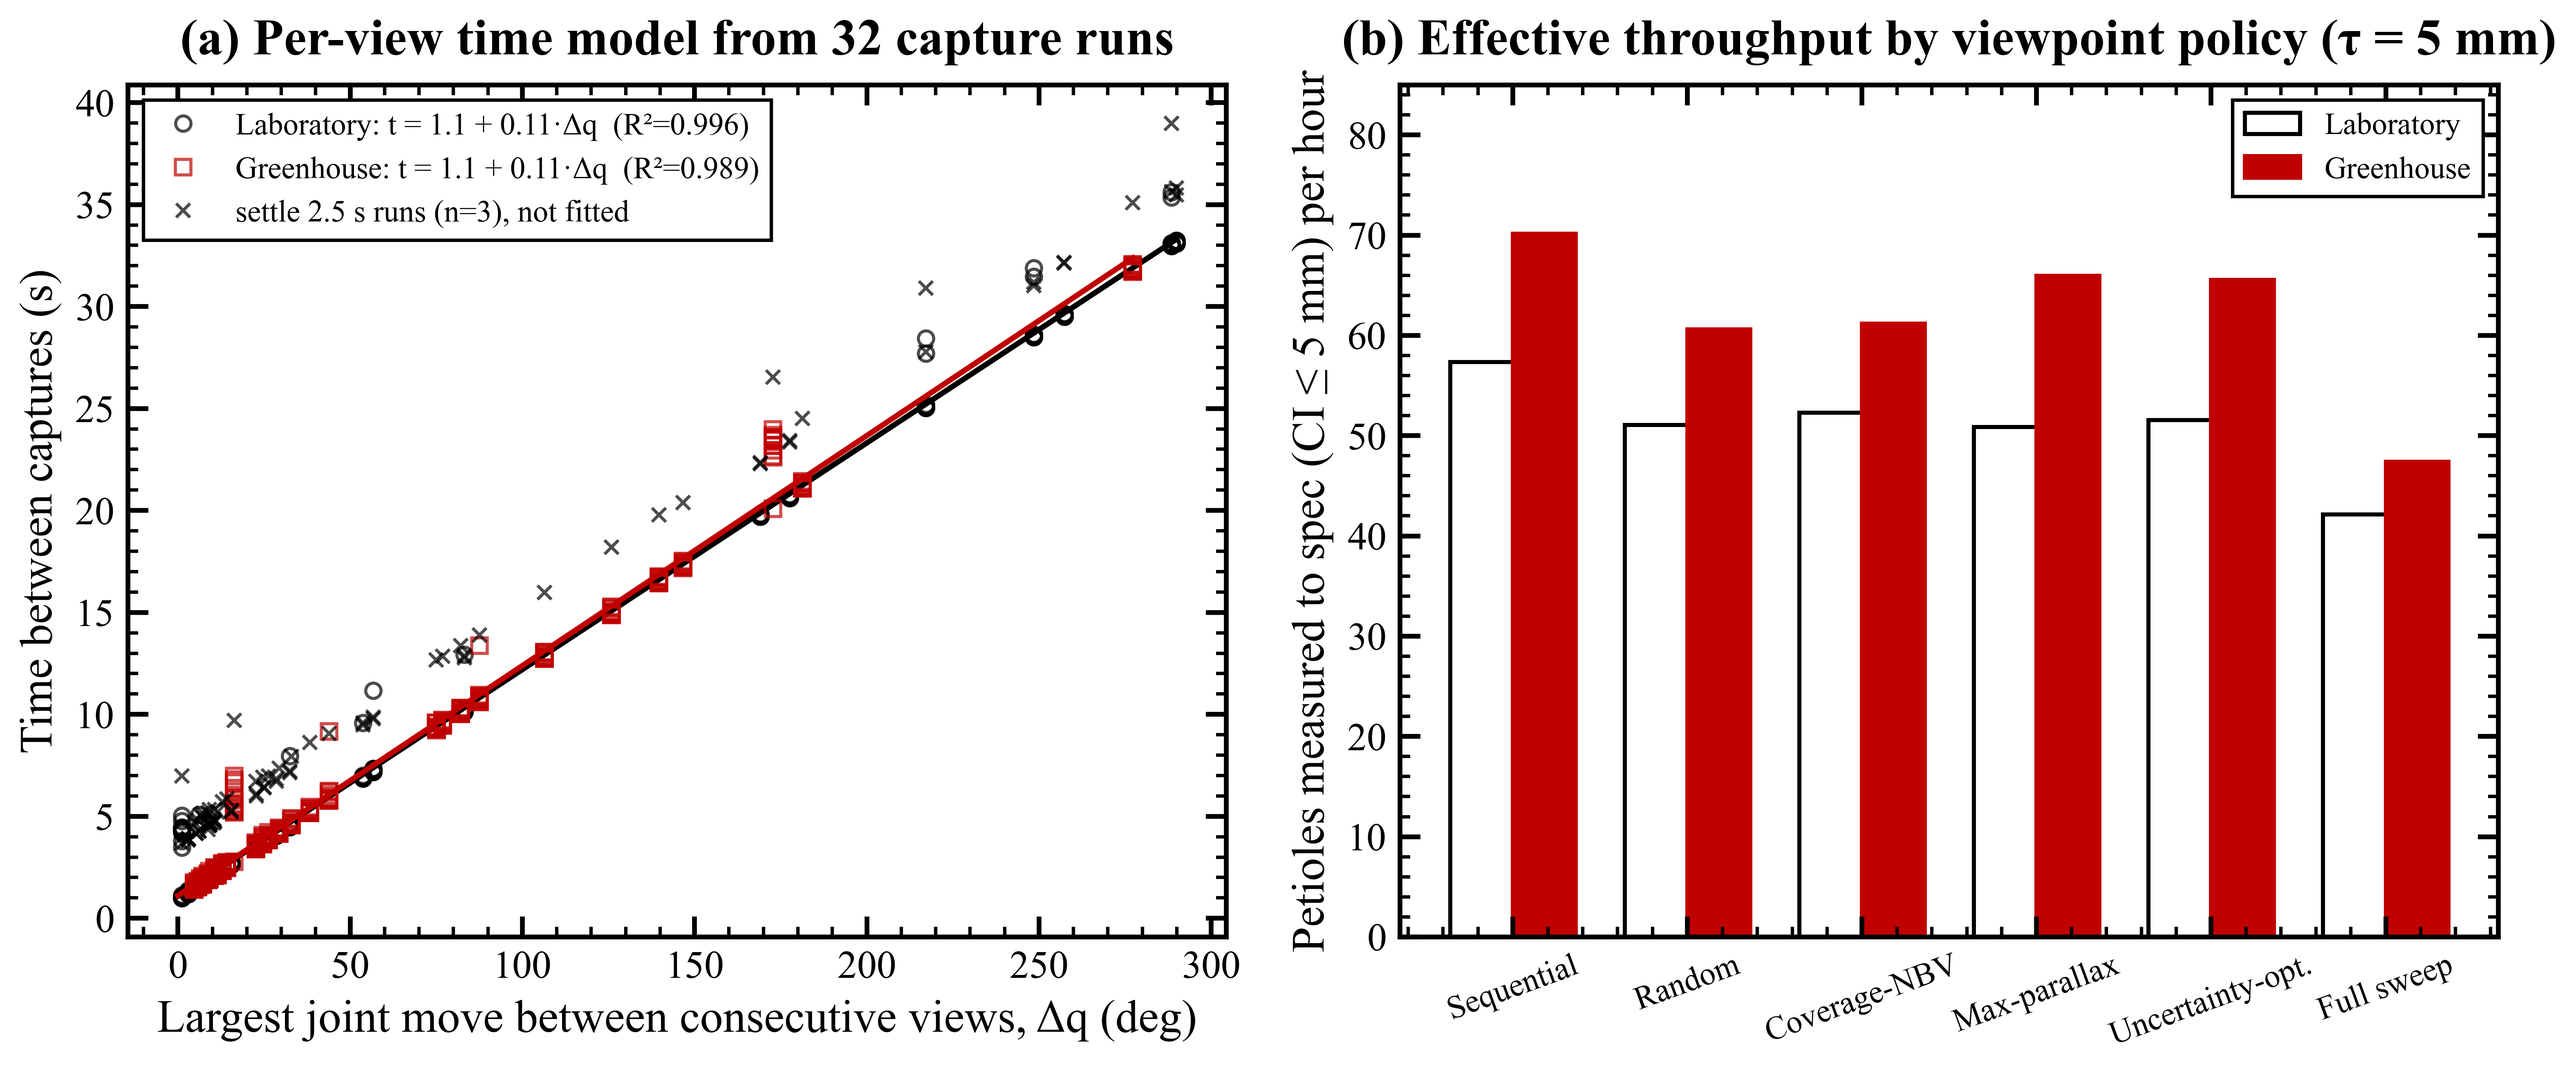
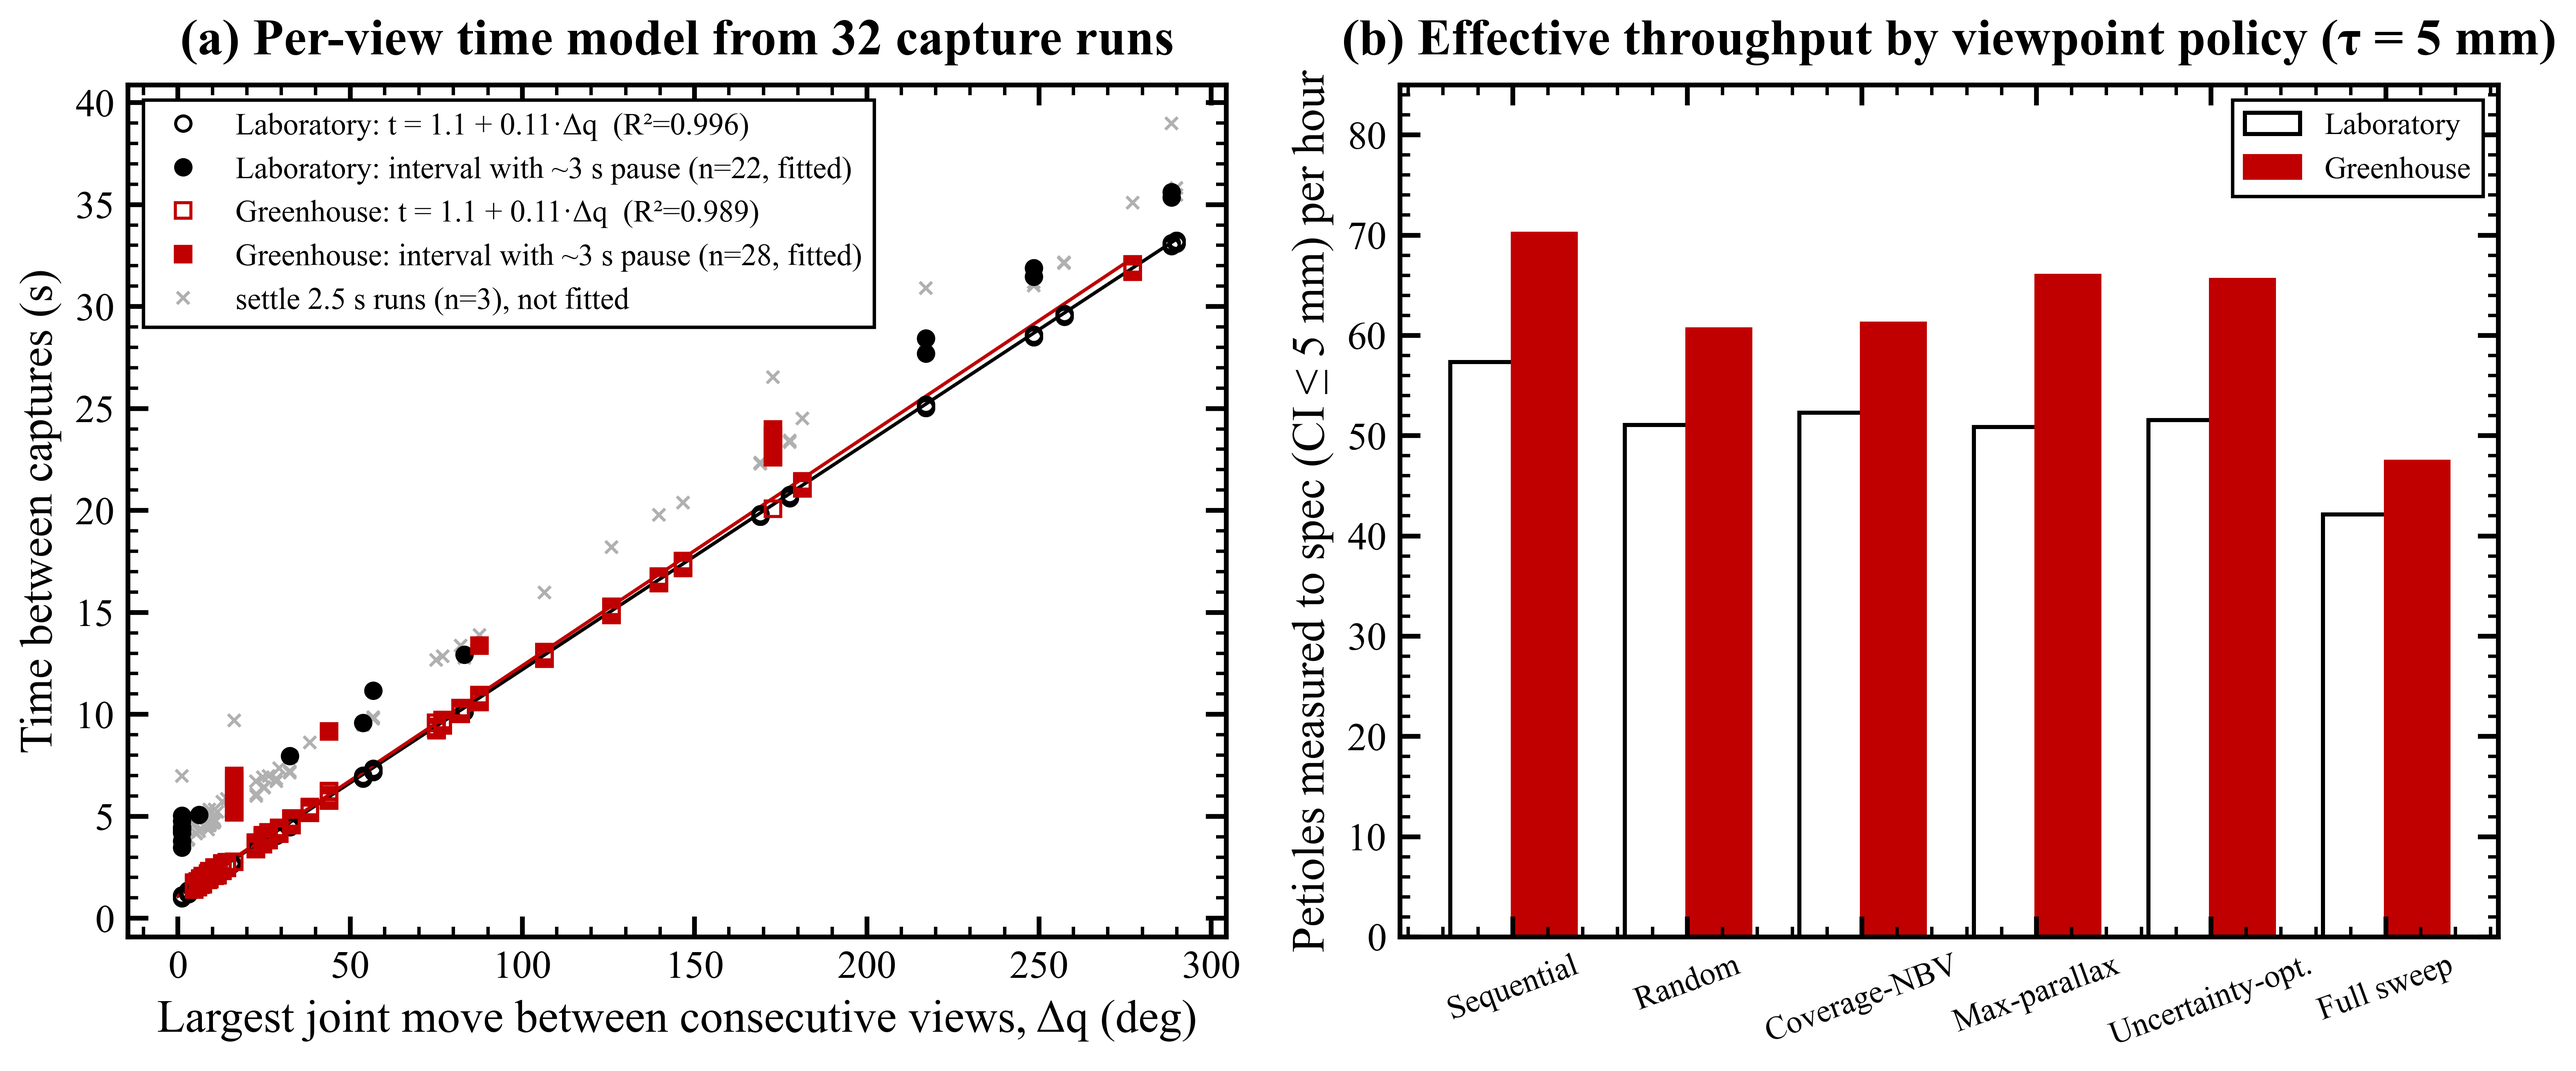
Fig D(a): mark ~3 s pause intervals, de-emphasise excluded runs
1-2 intervals per run carry an extra ~3 s pause; they remain in the OLS
fit (run totals preserved) but are now drawn as filled markers. The 2.5 s
settle runs are drawn in light grey. Numbers unchanged.

diff --git a/msa_analysis.py b/msa_analysis.py
@@ -366,14 +366,22 @@ def block_d(pet, throughput_csv=ABL / "_throughput5_causal.csv"):
                         move_model=dict(intercept_s=lin["intercept"], slope_s_per_deg=lin["slope"],
                                         r2=lin["r2"], p_slope=lin["p_slope"]),
                         settle_ms=man0["settle_ms"], speed_percent=man0["speed_percent"])
-        ax[0].plot(dq, dt, linestyle="none", marker=st["marker"], markerfacecolor="none",
-                   markeredgecolor=st["color"], markersize=4.5, alpha=0.7,
+        # 1~2 intervals per run carry an extra ~3 s pause; they stay in the fit (OLS keeps the mean, so run totals
+        # are preserved) but are drawn separately so the line is not read as missing them.
+        pause = dt - (lin["intercept"] + lin["slope"] * dq) > 1.5
+        res[coh]["n_pause_intervals"] = int(pause.sum())
+        xs = np.array([0, dq.max()])
+        ax[0].plot(xs, lin["intercept"] + lin["slope"] * xs, color=st["color"], lw=1.0, zorder=1)
+        ax[0].plot(dq[~pause], dt[~pause], linestyle="none", marker=st["marker"], markerfacecolor="none",
+                   markeredgecolor=st["color"], markersize=4.5, zorder=2,
                    label=f"{coh}: t = {lin['intercept']:.1f} + {lin['slope']:.2f}·Δq  (R²={lin['r2']:.3f})")
-        xs = np.array([0, dq.max()]); ax[0].plot(xs, lin["intercept"] + lin["slope"] * xs, color=st["color"], lw=1.6)
+        ax[0].plot(dq[pause], dt[pause], linestyle="none", marker=st["marker"], markerfacecolor=st["color"],
+                   markeredgecolor=st["color"], markersize=4.5, zorder=2,
+                   label=f"{coh}: interval with ~3 s pause (n={int(pause.sum())}, fitted)")
         all_x += iv_x; n_fit += len(sweeps); n_excl += n_x
     if all_x:
-        ax[0].plot([x["dq_max"] for x in all_x], [x["dt"] for x in all_x], linestyle="none", marker="x", color="grey",
-                   markersize=4, alpha=0.7, label=f"settle 2.5 s runs (n={n_excl}), not fitted")
+        ax[0].plot([x["dq_max"] for x in all_x], [x["dt"] for x in all_x], linestyle="none", marker="x",
+                   color="#B0B0B0", markeredgecolor="#B0B0B0", markersize=3.5, zorder=0, label=f"settle 2.5 s runs (n={n_excl}), not fitted")
     ax[0].set_xlabel("Largest joint move between consecutive views, Δq (deg)")
     ax[0].set_ylabel("Time between captures (s)"); ax[0].set_title(f"(a) Per-view time model from {n_fit} capture runs")
     ax[0].legend(loc="upper left", frameon=True, edgecolor="black", fancybox=False, fontsize=9)
